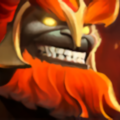
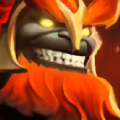
improved quality of Mars image, credited Lorentzen1337 for 1.68

diff --git a/index.html b/index.html
@@ -18,7 +18,6 @@
 			<h1 style="text-transform: none;"><a style="color: inherit;" href="https://reddit.com/r/AutoChess" target="_blank">r/AUTOCHESS</a> TIER LIST CREATOR <baby id="version">v1.68</baby></h1>
 			<div id="buttons">
 				<button id="screenshot">Share / Import</button>
-				<!-- <button id="game">Change Game</button> -->
 				<button id="hidebuttons">Hide Controls</button>
 				<button id="reset">Reset List</button>
 				<button id="help">Help</button>
@@ -80,7 +79,7 @@
 	<div id="characterHighlight">
 		<span id="characterHighlightName">Abaddon</span>
 	</div>
-	
+
 	<div id="overlay">
 		<div id="modalWrapper">
 			<div id="modal">
@@ -118,7 +117,7 @@
 				</p>
 				<h1>ABOUT</h1>
 				<span id="close"></span>
-				<p>This is a new and maintained version of the original Smash Tier List Maker created<baby>(?)</baby> by <a href="https://github.com/quetzle">Quetzle</a>. 
+				<p>This is a new and maintained version of the original Smash Tier List Maker created<baby>(?)</baby> by <a href="https://github.com/quetzle">Quetzle</a>.
 					I used to have my own fork of this project a long time ago, but due to hosting trouble and lack of version control, I lost it. But now it's back... with version control and for Dota Auto Chess!
 				</p>
 			</div>
@@ -127,9 +126,9 @@
 				<p>
 					<dl>
 						<dt>Version 1.68 &ndash;</dt>
-						<dd>Added <strong>Mars</strong>, <strong>Zeus</strong>.</dd>
+						<dd>Added <strong>Mars</strong>, <strong>Zeus</strong>. (Thanks Lorentzen1337)</dd>
             <dt>Version 1.67 &ndash;</dt>
-            <dd>Fixed issue where character name tags wouldn't appear when hovering (Firefox).</dd>
+            <dd>Fixed issue where character name tags wouldn't appear when hovering. (Firefox)</dd>
             <dt>Version 1.66 &ndash;</dt>
             <dd>Added <strong>Riki</strong>, <strong>Death Prophet</strong>, <strong>Mirana</strong>.</dd>
 						<dt>Version 1.65 &ndash;</dt>
@@ -187,22 +186,22 @@
 				localStorage.setItem("TierListCreatorCode",toCode());
 				$("body").css("touch-action", "pan-y");
 		});
-		
+
 		// character images
 		var singleChar = "<div class='character'></div>";
 		var gameDAC = ["dac", "abaddon", "alchemist", "antim", "axe", "batr", "beastm", "bountyh", "chaosk", "clockw", "crystalm", "disruptor", "doom", "dragonk", "drowr", "enchant", "engima", "furion", "gyroc", "juggernaut", "keeperotl", "kunkka", "lich", "lina", "loned", "luna", "lycan", "medusa", "morph", "necrophos", "ogrem", "omnik", "phantoma", "puck", "queenop", "razor", "sandk", "shadowf", "shadows", "slardar", "slark", "sniper", "techies", "templara", "terrorblade", "tidehunter", "timbersaw", "tinker", "tiny", "treantp", "trollwl", "tusk", "venomancer", "viper", "windranger", "witchd", "riki", "deathp", "mirana", "zeus", "mars"];
 		var dacNames = ["Dota Auto Chess", "Abaddon", "Alchemist", "Anti-Mage", "Axe", "Batrider", "Beastmaster", "Bounty Hunter", "Chaos Knight", "Clockwerk", "Crystal Maiden", "Disruptor", "Doom", "Dragon Knight", "Drow Ranger", "Enchantress", "Enigma", "Furion", "Gyrocopter", "Juggernaut", "Keeper of the Light", "Kunkka", "Lich", "Lina", "Lone Druid", "Luna", "Lycan", "Medusa", "Morphling", "Necrophos", "Ogre Magi", "Omniknight", "Phantom Assassin", "Puck", "Queen of Pain", "Razor", "Sand King", "Shadow Fiend", "Shadow Shaman", "Slardar", "Slark", "Sniper", "Techies", "Templar Assassin", "Terrorblade", "Tidehunter", "Timbersaw", "Tinker", "Tiny", "Treant Protector", "Troll Warlord", "Tusk", "Venomancer", "Viper", "Windranger", "Witch Doctor", "Riki", "Death Prophet", "Mirana", "Zeus", "Mars"];
 
 		var colors = ["#FF7F7F","#FFBF7F","#FFDF7F","#FFFF7F","#BFFF7F","#7FFF7F","#7FFFFF","#7FBFFF","#7F7FFF","#FF7FFF","#BF7FBF","#3B3B3A","#858585", "#F7F7F7"];
-		
+
 		function generateRandomColor(){
 			randomColor = colors[Math.floor(Math.random() * colors.length)];
 			return randomColor;
 		}
 
 		var singleTier = "<tr><td class='labelHolder' contenteditable='true' style='background-color: " + generateRandomColor() + "'><span class='label'>NEW</span></td><td><div class='tier sort' id='rows'><div class='hiddenkid'></div></div></td><td class='tButtons'><div id='settings'></div></td><td class='tButtons'><div id='moveUp'></div><div id='moveDown'></div></td><td class='tButtons'><div id='addButton'></div><div id='deleteButton'></div></td></div></div></td></tr>";
-		
-		
+
+
 		$("#tierTitle").click(function() {
 			var title = $(this);
 			var text = title.text();
@@ -240,7 +239,7 @@
 		for (var i = 0; i < tierDefaults.length; i++) {
 			tierDefaults[i][0].find(".labelHolder").css("background",colors[tierDefaults[i][1]]);
 		}
-			
+
 		$(document).on("load", function(){
 			generateRandomColor();
 		});
@@ -266,7 +265,7 @@
 			var el = event.target;
 			var coords = el.getBoundingClientRect();
 			var nameLength = dacNames[el.id].length;
-      
+
       $("#characterHighlightName").text(dacNames[el.id]);
       $("#characterHighlight").css("display", "inline-block");
 
@@ -278,7 +277,7 @@
 			var el = event.target;
 			$("#characterHighlight").css("display", "none");
 		});
-		
+
 		$(document).on("click", "#game", function() { // open game changer modal
 			$("#gameChange").css("display","block");
 			$("#overlay").css("opacity", 1);
@@ -308,14 +307,14 @@
 			currentTier.find(".labelHolder").css("background-color",$(this).css("background-color"));
 			updateTiers();
 		});
-		
+
 		$(document).on("click", "#gameChange button", function() { // change game
 			console.log("Game has been changed!");
 			switch($(this).attr("id")) {
 				case "switchDAC": changeGame(gameDAC);break;
 			}
 		});
-			
+
 		$(document).on("click", function(e){
 			clicked = e.target.id;
 			if (clicked == "tr span"){
@@ -440,7 +439,7 @@
 			$(this).select();
 			e.preventDefault();
 		});
-		
+
 		$("#labelName").bind("input propertychange", function() {
 			var newLabel = sanitizeHtml($("#labelName").val());
 			currentTier.find(".label").html(newLabel);
@@ -460,7 +459,7 @@
 			}
 			return "#" + hex(rgb[1]) + hex(rgb[2]) + hex(rgb[3]);
 		}
-		
+
 		function updateTiers() {
 			tierlist = [];
 			tempTier = currentTier;
@@ -474,7 +473,7 @@
 			}
 			currentTier = tempTier;
 		}
-		
+
 		function checkUrl() {
 			var params = new URLSearchParams(window.location.search);
 			if (params.has('code')) {
@@ -493,8 +492,8 @@
 		}
 
 		function decodeUrl(code) {
-			if (code === null || code === undefined) { 
-				return null 
+			if (code === null || code === undefined) {
+				return null
 			}
 			return decodeURIComponent(code);
 		}
@@ -514,7 +513,7 @@
 			$("h1 span").text(currentGame);
 			updateTiers();
 		}
-		
+
 		function toCode() { // format game==label|color|char1|char2|...==label|color|char1|char2|...==...
 			var codeColors = [], labels = [], currentChars = [], shareCode = "";
 			var correctedRowName = "";
@@ -536,7 +535,7 @@
 				} else {
 					correctedRowName = "Tier";
 				}
-			
+
 				labels.push($(this).find(".label").html() || correctedRowName);
 				// if ($(this).find(".label").html() === "---") {
 				// 	$(this).find(".label") = "test";
@@ -563,7 +562,7 @@
 			console.log(shareCode);
 			return shareCode;
 		}
-		
+
 		function loadCode(code) {
 			var codeSplit = [], tempTier = [], processedCode = [];
 			codeSplit = code.split("==");
@@ -596,7 +595,7 @@
 		function loadDefault() {
 			loadCode("dac==S|5==A|4==B|3==C|1==F|0");
 		}
-			
+
 
 		function tierlistSize() {
 			if ($("table").width > $("#tablewrap").width)
@@ -604,7 +603,7 @@
 			else
 				$("#tablewrap").css("display","block");
 		}
-		
+
 		function alignPopup(popup) {
 			return Math.floor(($(window).height() - popup.height())/ 20)+"vh";
 			// return Math.floor(($(window).height() - popup.height())/2)+"px";
@@ -633,7 +632,7 @@
 		$(window).resize( function () {
 			tierlistSize();
 		})
-		
+
 	</script>
 	<script type="text/javascript">window.onload=loadDefault();</script>
 </body>
